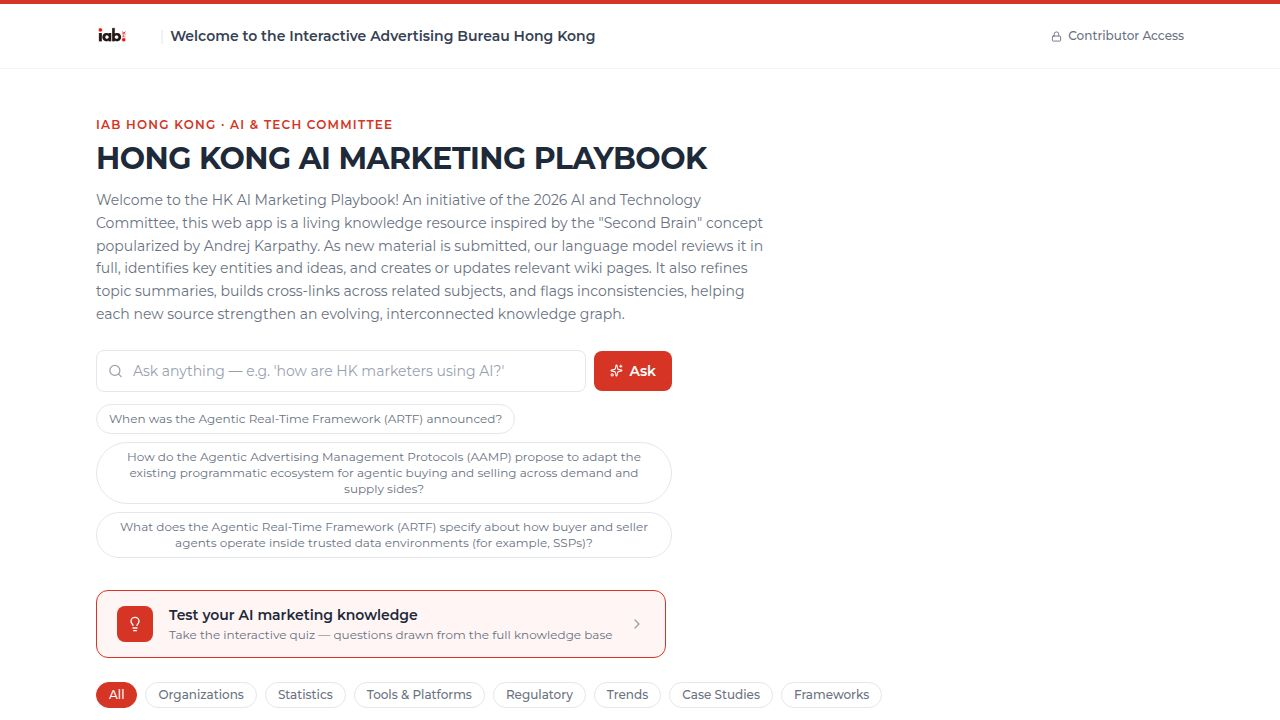
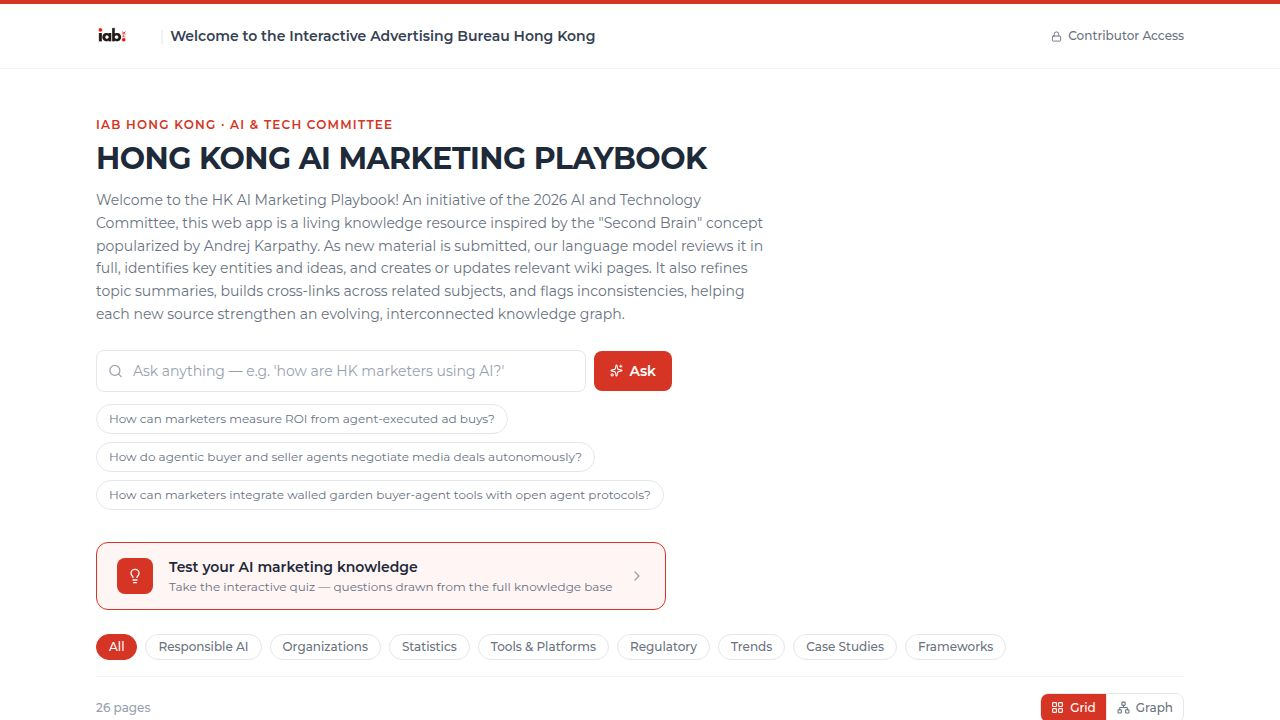
Task #154: Speed up initial page load by lazy-loading admin, quiz, and graph views
- App.tsx: AdminLogin, AdminDashboard, SuperAdminLogin, SuperAdminDashboard,
  and QuizPage converted to React.lazy(() => import(...)); the Router's
  <Switch> is wrapped in <Suspense> with a centered spinner fallback
  (RouteFallback) matching the existing WikiPage spinner styling.
- WikiIndex/WikiPage remain eager imports (primary landing routes).
- WikiIndex.tsx: WikiGraph converted to React.lazy; its render in the
  viewMode === "graph" branch is wrapped in its own <Suspense> with a
  spinner fallback shown in the graph container area.

Verification:
- pnpm --filter @user/report run typecheck: only the two known
  pre-existing errors (QuizPage TS7030, SuperAdminDashboard uploaderName)
  remain; no new errors introduced.
- Preview screenshots: /admin/login and /quiz load correctly via lazy chunks.
- E2E test: wiki index loads, grid -> graph -> grid toggle works, graph
  renders with no chunk/module load errors.
- Architect review: PASS, no issues in the changed code.

Note: artifacts/report/public/opengraph.jpg shows as modified in the working
tree but was not touched by this task (pre-existing local change).

diff --git a/artifacts/report/src/App.tsx b/artifacts/report/src/App.tsx
@@ -1,3 +1,4 @@
+import { lazy, Suspense } from "react";
 import { Switch, Route, Router as WouterRouter } from "wouter";
 import { QueryClient, QueryClientProvider } from "@tanstack/react-query";
 import { Toaster } from "@/components/ui/toaster";
@@ -5,26 +6,37 @@ import { TooltipProvider } from "@/components/ui/tooltip";
 import NotFound from "@/pages/not-found";
 import WikiIndex from "@/pages/WikiIndex";
 import WikiPage from "@/pages/WikiPage";
-import AdminLogin from "@/pages/AdminLogin";
-import AdminDashboard from "@/pages/AdminDashboard";
-import SuperAdminLogin from "@/pages/SuperAdminLogin";
-import SuperAdminDashboard from "@/pages/SuperAdminDashboard";
-import QuizPage from "@/pages/QuizPage";
+
+const AdminLogin = lazy(() => import("@/pages/AdminLogin"));
+const AdminDashboard = lazy(() => import("@/pages/AdminDashboard"));
+const SuperAdminLogin = lazy(() => import("@/pages/SuperAdminLogin"));
+const SuperAdminDashboard = lazy(() => import("@/pages/SuperAdminDashboard"));
+const QuizPage = lazy(() => import("@/pages/QuizPage"));
 
 const queryClient = new QueryClient();
 
+function RouteFallback() {
+  return (
+    <div className="min-h-screen bg-white flex items-center justify-center" style={{ fontFamily: "'Montserrat', sans-serif" }}>
+      <div className="w-8 h-8 border-2 border-[#D63425]/20 border-t-[#D63425] rounded-full animate-spin" />
+    </div>
+  );
+}
+
 function Router() {
   return (
-    <Switch>
-      <Route path="/" component={WikiIndex} />
-      <Route path="/quiz" component={QuizPage} />
-      <Route path="/wiki/:slug" component={WikiPage} />
-      <Route path="/admin/login" component={AdminLogin} />
-      <Route path="/admin" component={AdminDashboard} />
-      <Route path="/super-admin/login" component={SuperAdminLogin} />
-      <Route path="/super-admin" component={SuperAdminDashboard} />
-      <Route component={NotFound} />
-    </Switch>
+    <Suspense fallback={<RouteFallback />}>
+      <Switch>
+        <Route path="/" component={WikiIndex} />
+        <Route path="/quiz" component={QuizPage} />
+        <Route path="/wiki/:slug" component={WikiPage} />
+        <Route path="/admin/login" component={AdminLogin} />
+        <Route path="/admin" component={AdminDashboard} />
+        <Route path="/super-admin/login" component={SuperAdminLogin} />
+        <Route path="/super-admin" component={SuperAdminDashboard} />
+        <Route component={NotFound} />
+      </Switch>
+    </Suspense>
   );
 }
 

diff --git a/artifacts/report/src/pages/WikiIndex.tsx b/artifacts/report/src/pages/WikiIndex.tsx
@@ -1,9 +1,10 @@
-import React, { useState, useEffect, useRef } from "react";
+import React, { useState, useEffect, useRef, lazy, Suspense } from "react";
 import { Link } from "wouter";
 import { Search, BookOpen, Clock, ChevronRight, Lock, Sparkles, LayoutGrid, Network, X, Lightbulb } from "lucide-react";
-import WikiGraph from "../components/WikiGraph";
 import { useJsonLd } from "@/lib/useJsonLd";
 import { usePageMeta } from "@/hooks/usePageMeta";
+
+const WikiGraph = lazy(() => import("../components/WikiGraph"));
 
 interface WikiPageSummary {
   id: number;
@@ -997,10 +998,18 @@ export default function WikiIndex() {
             <div className="w-8 h-8 border-2 border-[#D63425]/20 border-t-[#D63425] rounded-full animate-spin" />
           </div>
         ) : viewMode === "graph" ? (
-          <WikiGraph
-            pages={graphFilteredPages}
-            allPages={pages ?? []}
-          />
+          <Suspense
+            fallback={
+              <div className="flex items-center justify-center py-24">
+                <div className="w-8 h-8 border-2 border-[#D63425]/20 border-t-[#D63425] rounded-full animate-spin" />
+              </div>
+            }
+          >
+            <WikiGraph
+              pages={graphFilteredPages}
+              allPages={pages ?? []}
+            />
+          </Suspense>
         ) : filtered.length === 0 ? (
           isSearching ? (
             <div className="text-center py-20 text-gray-400">